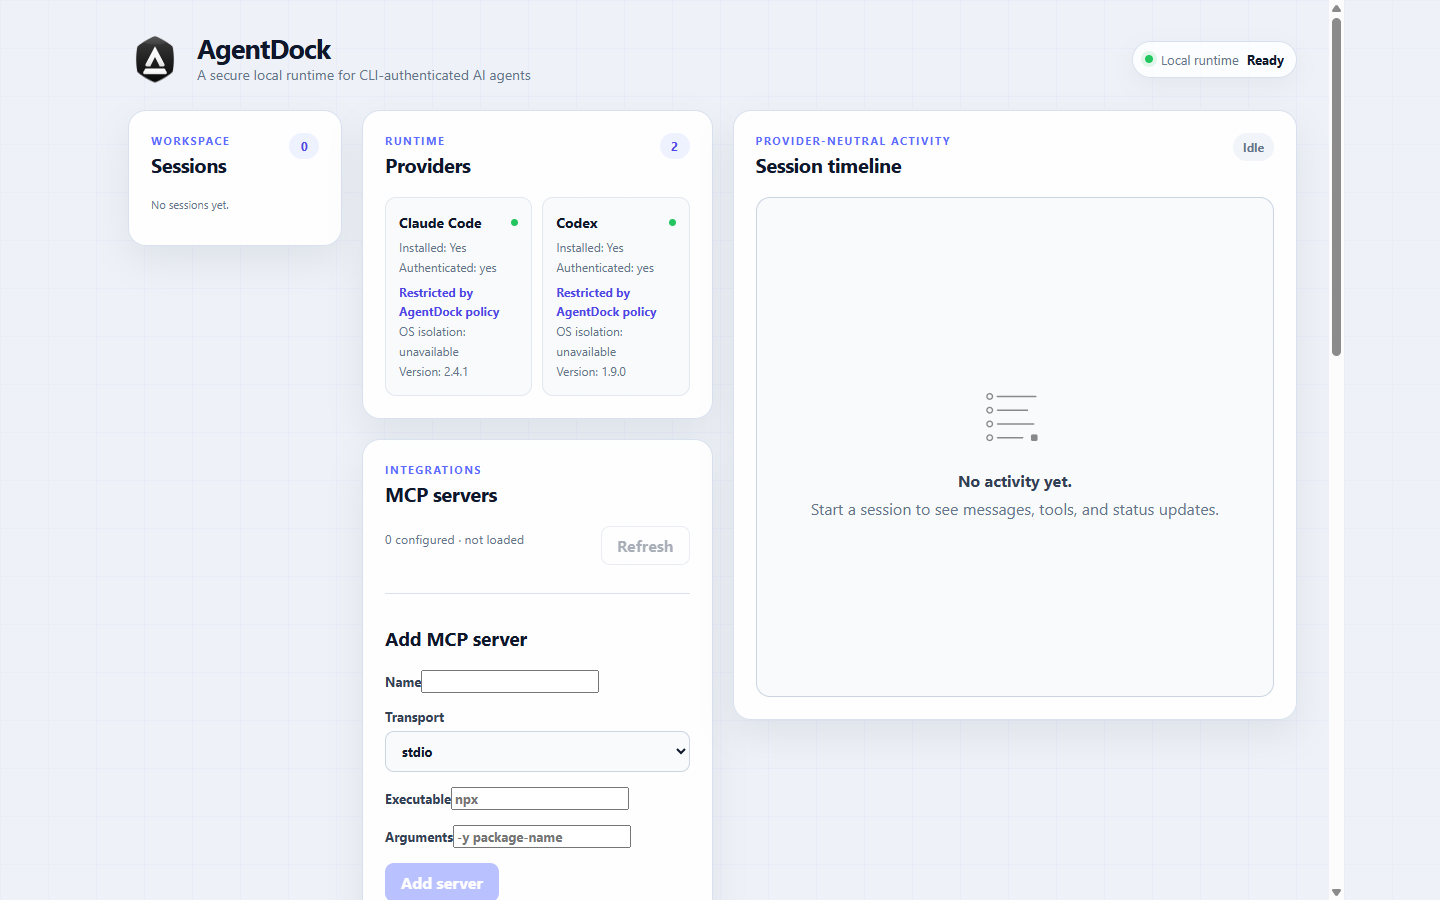
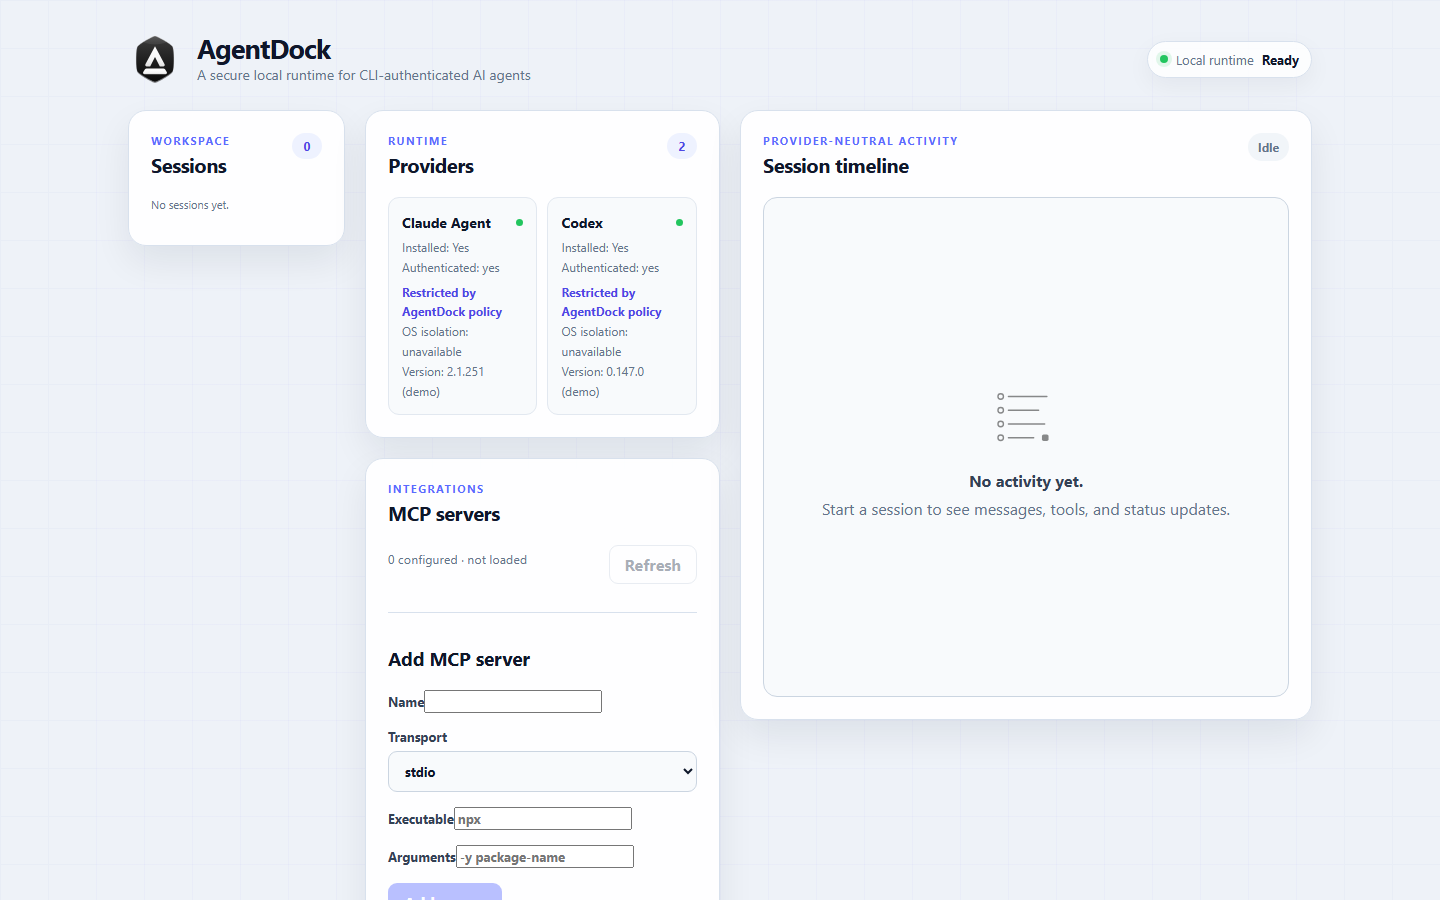
fix(brand): enforce Claude Agent branding and truthful demo screenshots
The SDK-backed provider was shipping as "Claude Code" in the desktop
selector, provider empty state, and asset-capture fixture, and public
screenshots showed fictitious versions (2.4.1 / 1.9.0) and a synthetic
transport id with no demo indication -- exactly what the release policy
in sdk-version.ts already prohibited but nothing enforced.

Centralize the approved display names in
PROVIDER_DISPLAY_NAMES (packages/shared/src/provider.ts) and consume it
from the real detectors, the desktop UI, the capture fixture, and the
generated social-image copy. The capture fixture now reports the actual
pinned/verified provider versions suffixed "(demo)" and a
self-labeling "demo-interactive" transport id instead of invented
numbers. Regenerated the five documentation screenshots and four
derived social images, and added a regression test that fails the
build if "Claude Code"/"Claude Code Agent" is reintroduced in any
release-visible source.

Closes #50

diff --git a/apps/desktop/src/asset-capture-bridge.ts b/apps/desktop/src/asset-capture-bridge.ts
@@ -6,23 +6,30 @@ import type {
   ProviderStatusV2,
   WorkspaceTrustViewV2,
 } from '@agent-dock/shared';
+import { PROVIDER_DISPLAY_NAMES } from '@agent-dock/shared';
 import type { AgentDockBridge } from './window.js';
+
+/** Documentation screenshots must never present fictitious data as real: every version here is
+ * the actual pinned/verified provider version from `compatibility-manifest.ts` and
+ * `sdk-version.ts`, and is suffixed "(demo)" so a reader can never mistake this fixture-driven
+ * capture for a live provider read. */
+const DEMO_TRANSPORT_ID = 'demo-interactive';
 
 const providers: ProviderStatus[] = [
   {
     id: 'claude',
-    name: 'Claude Code',
+    name: PROVIDER_DISPLAY_NAMES.claude,
     installed: true,
     authenticated: 'authenticated',
-    version: '2.4.1',
+    version: '2.1.251 (demo)',
     capabilities: { resume: true, cancellation: true, tools: true, usage: true, thinking: true },
   },
   {
     id: 'codex',
-    name: 'Codex',
+    name: PROVIDER_DISPLAY_NAMES.codex,
     installed: true,
     authenticated: 'authenticated',
-    version: '1.9.0',
+    version: '0.147.0 (demo)',
     capabilities: { resume: true, cancellation: true, tools: true, usage: true },
   },
 ];
@@ -34,7 +41,7 @@ const providersV2: ProviderStatusV2[] = providers.map((provider) => ({
   authenticated: provider.authenticated,
   transports: [
     {
-      id: 'asset-capture-interactive',
+      id: DEMO_TRANSPORT_ID,
       priority: 0,
       stability: 'stable',
       possibleEffects: ['read', 'filesystem_write', 'command'],
@@ -162,7 +169,7 @@ export function installAssetCaptureBridge(): void {
     },
     createInteractiveSession: async (input) => {
       const selection = {
-        transport: 'asset-capture-interactive',
+        transport: DEMO_TRANSPORT_ID,
         enabled: [],
         unavailableOptional: [],
         possibleEffects: [],

diff --git a/apps/desktop/test/release-branding.test.ts b/apps/desktop/test/release-branding.test.ts
@@ -1,0 +1,43 @@
+import { readFileSync } from 'node:fs';
+import { fileURLToPath } from 'node:url';
+import { describe, expect, it } from 'vitest';
+import { PROVIDER_DISPLAY_NAMES } from '@agent-dock/shared';
+
+/**
+ * Guards the release-visible provider identity policy: product UI may say "Claude Agent" (or
+ * "Claude"), never "Claude Code" or "Claude Code Agent" — those names stay reserved for accurate
+ * technical references to the separately installed, upstream Claude CLI (docs, error messages
+ * naming the binary), never for the product-facing provider name. See
+ * `packages/shared/src/provider.ts` and `packages/agent-runtime/src/providers/claude/sdk-version.ts`.
+ */
+const PROHIBITED_DISPLAY_NAMES = ['Claude Code', 'Claude Code Agent'];
+
+/** Every release-visible renderer surface and generator that must render the provider name, not
+ * hardcode it. */
+const RELEASE_VISIBLE_SOURCE_FILES = [
+  '../src/App.tsx',
+  '../src/components/ProviderPanel.tsx',
+  '../src/asset-capture-bridge.ts',
+  '../../../scripts/assets/generate_public_assets.py',
+];
+
+function readSource(relativePath: string): string {
+  return readFileSync(fileURLToPath(new URL(relativePath, import.meta.url)), 'utf8');
+}
+
+describe('release-visible provider branding', () => {
+  it('centralizes the approved Claude display name as "Claude Agent"', () => {
+    expect(PROVIDER_DISPLAY_NAMES.claude).toBe('Claude Agent');
+    expect(PROHIBITED_DISPLAY_NAMES).not.toContain(PROVIDER_DISPLAY_NAMES.claude);
+  });
+
+  it.each(RELEASE_VISIBLE_SOURCE_FILES)(
+    'never reintroduces a prohibited SDK display name in %s',
+    (relativePath) => {
+      const source = readSource(relativePath);
+      for (const prohibited of PROHIBITED_DISPLAY_NAMES) {
+        expect(source).not.toContain(prohibited);
+      }
+    },
+  );
+});

diff --git a/packages/shared/src/provider.ts b/packages/shared/src/provider.ts
@@ -4,6 +4,21 @@ export const PROVIDER_IDS = ['claude', 'codex'] as const;
 export type ProviderId = (typeof PROVIDER_IDS)[number];
 
 /**
+ * The single source of truth for release-visible provider names. Every UI surface, status
+ * payload, and screenshot fixture must render these values rather than a local string literal, so
+ * a branding-policy change only needs to happen once.
+ *
+ * Anthropic's Agent SDK distribution terms permit product UI to say "Claude Agent" (or "Claude"
+ * inside an Agents menu), but not "Claude Code" or "Claude Code Agent" — those names stay reserved
+ * for accurate technical references to the separately installed, upstream Claude CLI executable
+ * (docs, error messages naming the binary, etc.), never for the product-facing provider identity.
+ */
+export const PROVIDER_DISPLAY_NAMES: Record<ProviderId, string> = {
+  claude: 'Claude Agent',
+  codex: 'Codex',
+};
+
+/**
  * Deliberately a pure string union with no boolean member (AD-13): the previous
  * `boolean | 'unknown'` shape let a lazy `if (status.authenticated)` silently treat "couldn't
  * determine" as "authenticated", which is exactly backwards for a security-relevant signal.

diff --git a/packages/agent-runtime/src/providers/claude/sdk-version.ts b/packages/agent-runtime/src/providers/claude/sdk-version.ts
@@ -1,3 +1,5 @@
+import { PROVIDER_DISPLAY_NAMES } from '@agent-dock/shared';
+
 /**
  * The Agent SDK is deliberately pinned: its stream/control protocol is fixture-backed rather
  * than treated as a semver-stable CLI implementation detail.  Update these constants, package
@@ -14,8 +16,8 @@ export const CLAUDE_AGENT_SDK_WINDOWS_X64_BINARY_PACKAGE =
   '@anthropic-ai/claude-agent-sdk-win32-x64';
 export const CLAUDE_AGENT_SDK_WINDOWS_X64_BINARY_VERSION = CLAUDE_AGENT_SDK_VERSION;
 
-/** A release-visible name, not the existing local-CLI provider display name. */
+/** Mirrors the centralized `PROVIDER_DISPLAY_NAMES.claude` policy for this SDK-backed transport. */
 export const CLAUDE_AGENT_SDK_BRANDING = {
-  approvedDisplayName: 'Claude Agent',
+  approvedDisplayName: PROVIDER_DISPLAY_NAMES.claude,
   prohibitedDisplayNames: ['Claude Code', 'Claude Code Agent'],
 } as const;

diff --git a/apps/desktop/src/components/ProviderPanel.tsx b/apps/desktop/src/components/ProviderPanel.tsx
@@ -1,4 +1,4 @@
-import type { ProviderStatusV2 } from '@agent-dock/shared';
+import { PROVIDER_DISPLAY_NAMES, type ProviderStatusV2 } from '@agent-dock/shared';
 import noProvidersIllustration from '../../assets/illustrations/no-providers.svg';
 
 function authLabel(status: ProviderStatusV2): string {
@@ -20,7 +20,10 @@ export function ProviderPanel({ providers }: { providers: ProviderStatusV2[] }) 
       <div className="provider-panel provider-panel--empty">
         <img className="provider-panel__empty-illustration" src={noProvidersIllustration} alt="" />
         <strong>No providers found</strong>
-        <span>Install Claude Code or Codex, then restart AgentDock.</span>
+        <span>
+          Install {PROVIDER_DISPLAY_NAMES.claude} or {PROVIDER_DISPLAY_NAMES.codex}, then restart
+          AgentDock.
+        </span>
       </div>
     );
   }

diff --git a/apps/desktop/src/App.tsx b/apps/desktop/src/App.tsx
@@ -10,6 +10,7 @@ import type {
   SessionListV2Page,
   WorkspaceTrustViewV2,
 } from '@agent-dock/shared';
+import { PROVIDER_DISPLAY_NAMES } from '@agent-dock/shared';
 import type {
   RendererInteractionResolution,
   RendererQuestionResponse,
@@ -538,8 +539,8 @@ export function App() {
                   onChange={(event) => setProvider(event.target.value as ProviderId)}
                   disabled={creating}
                 >
-                  <option value="claude">Claude Code</option>
-                  <option value="codex">Codex</option>
+                  <option value="claude">{PROVIDER_DISPLAY_NAMES.claude}</option>
+                  <option value="codex">{PROVIDER_DISPLAY_NAMES.codex}</option>
                 </select>
               </label>
               <label>

diff --git a/packages/agent-runtime/src/providers/claude/detect.ts b/packages/agent-runtime/src/providers/claude/detect.ts
@@ -1,4 +1,5 @@
 import type { AuthSource, AuthStatus, ProviderStatus } from '@agent-dock/shared';
+import { PROVIDER_DISPLAY_NAMES } from '@agent-dock/shared';
 import { execCapture } from '../../process/exec-capture.js';
 import { findExecutable } from '../../detect-executable.js';
 import type { Logger } from '../../logger.js';
@@ -66,7 +67,7 @@ export async function detectClaude(logger: Logger): Promise<ProviderStatus> {
     id: 'claude' as const,
     // Product-facing provider identity stays "Claude Agent" for both transports; this function
     // still probes only the separately installed local CLI compatibility path.
-    name: 'Claude Agent',
+    name: PROVIDER_DISPLAY_NAMES.claude,
     authSource: 'unknown' as const,
     capabilities: CLAUDE_CAPABILITIES,
   };

diff --git a/packages/agent-runtime/src/providers/codex/detect.ts b/packages/agent-runtime/src/providers/codex/detect.ts
@@ -1,4 +1,5 @@
 import type { AuthSource, AuthStatus, ProviderStatus } from '@agent-dock/shared';
+import { PROVIDER_DISPLAY_NAMES } from '@agent-dock/shared';
 import { execCapture } from '../../process/exec-capture.js';
 import { findExecutable } from '../../detect-executable.js';
 import type { Logger } from '../../logger.js';
@@ -49,7 +50,7 @@ export async function detectCodex(
 ): Promise<ProviderStatus> {
   const base = {
     id: 'codex' as const,
-    name: 'Codex',
+    name: PROVIDER_DISPLAY_NAMES.codex,
     capabilities: CODEX_CAPABILITIES,
     authSource: 'unknown' as const,
   };

diff --git a/scripts/assets/generate_public_assets.py b/scripts/assets/generate_public_assets.py
@@ -150,7 +150,7 @@ def make_readme_and_portfolio() -> None:
     draw.text((78, 210), "AgentDock", fill=PAPER, font=font(58, bold=True))
     draw.multiline_text(
         (78, 292),
-        "Forkable Electron boilerplate\nfor desktop products using\nClaude Code or Codex CLI.",
+        "Forkable Electron boilerplate\nfor desktop products using\nClaude Agent or Codex CLI.",
         fill="#CBD5E1",
         font=font(23),
         spacing=8,
@@ -202,7 +202,7 @@ def make_social(width: int, height: int, filename: str) -> None:
     )
     draw.text(
         (pad, height - pad - 30),
-        "Fork it · Claude Code · Codex CLI",
+        "Fork it · Claude Agent · Codex CLI",
         fill="#94A3B8",
         font=font(round(height * 0.027)),
     )
